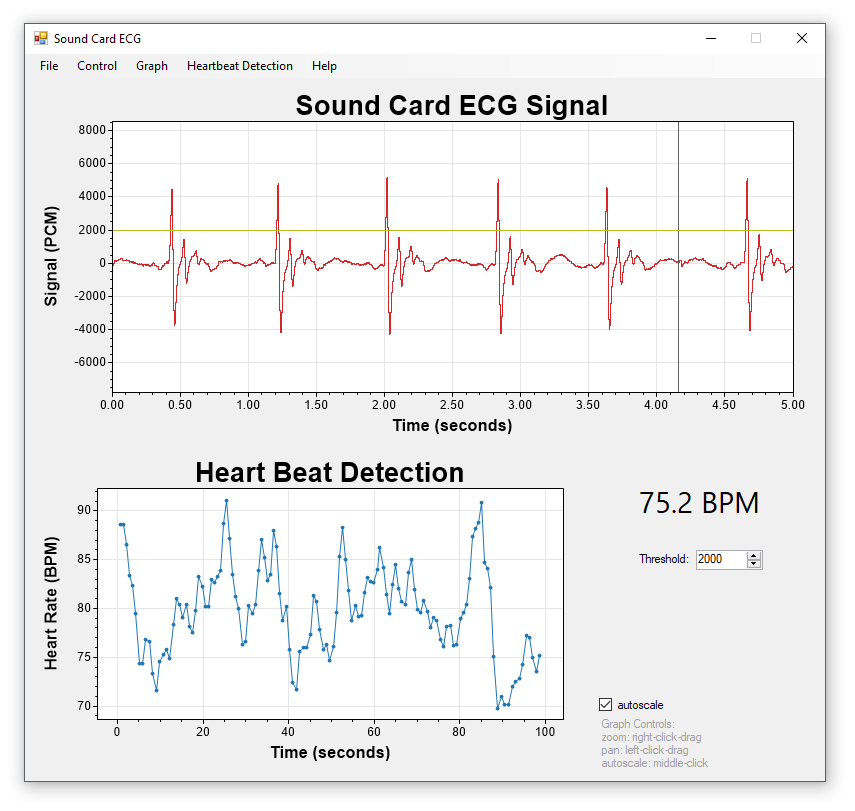
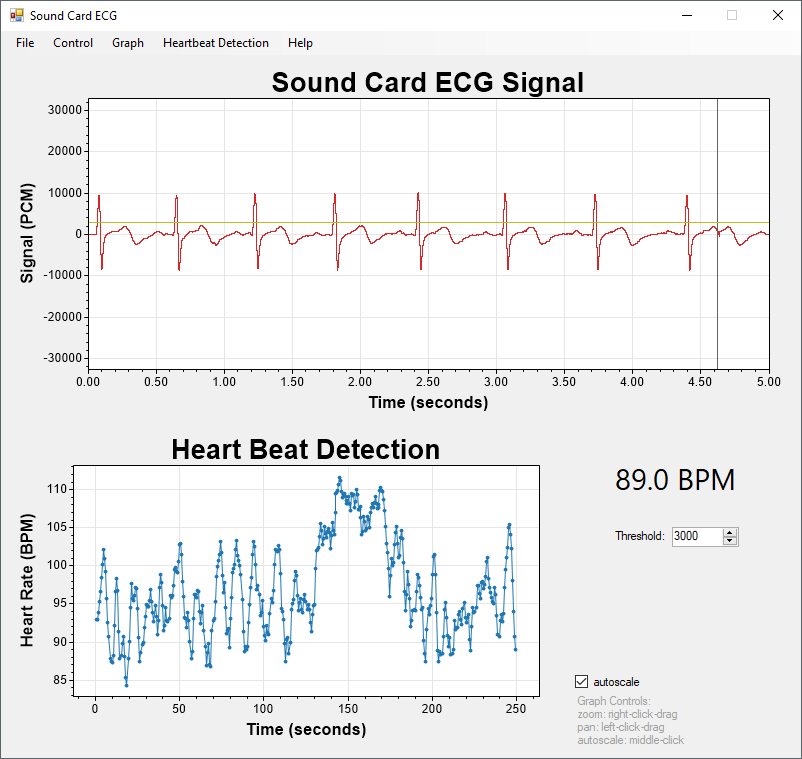
release v1.2

diff --git a/src/SoundCardECG/FormMain.Designer.cs b/src/SoundCardECG/FormMain.Designer.cs
@@ -29,6 +29,7 @@
         private void InitializeComponent()
         {
             this.components = new System.ComponentModel.Container();
+            System.ComponentModel.ComponentResourceManager resources = new System.ComponentModel.ComponentResourceManager(typeof(FormMain));
             this.menuStrip1 = new System.Windows.Forms.MenuStrip();
             this.fileToolStripMenuItem = new System.Windows.Forms.ToolStripMenuItem();
             this.exitToolStripMenuItem = new System.Windows.Forms.ToolStripMenuItem();
@@ -63,6 +64,8 @@
             this.nudThreshold = new System.Windows.Forms.NumericUpDown();
             this.label5 = new System.Windows.Forms.Label();
             this.cbAutoscale = new System.Windows.Forms.CheckBox();
+            this.invertSignalToolStripMenuItem = new System.Windows.Forms.ToolStripMenuItem();
+            this.toolStripSeparator4 = new System.Windows.Forms.ToolStripSeparator();
             this.menuStrip1.SuspendLayout();
             ((System.ComponentModel.ISupportInitialize)(this.nudThreshold)).BeginInit();
             this.SuspendLayout();
@@ -100,6 +103,8 @@
             // 
             this.soundCardToolStripMenuItem.DropDownItems.AddRange(new System.Windows.Forms.ToolStripItem[] {
             this.selectToolStripMenuItem,
+            this.toolStripSeparator4,
+            this.invertSignalToolStripMenuItem,
             this.toolStripSeparator1,
             this.startToolStripMenuItem,
             this.stopToolStripMenuItem});
@@ -110,26 +115,26 @@
             // selectToolStripMenuItem
             // 
             this.selectToolStripMenuItem.Name = "selectToolStripMenuItem";
-            this.selectToolStripMenuItem.Size = new System.Drawing.Size(178, 22);
+            this.selectToolStripMenuItem.Size = new System.Drawing.Size(180, 22);
             this.selectToolStripMenuItem.Text = "Select Audio Device";
             this.selectToolStripMenuItem.Click += new System.EventHandler(this.selectToolStripMenuItem_Click);
             // 
             // toolStripSeparator1
             // 
             this.toolStripSeparator1.Name = "toolStripSeparator1";
-            this.toolStripSeparator1.Size = new System.Drawing.Size(175, 6);
+            this.toolStripSeparator1.Size = new System.Drawing.Size(177, 6);
             // 
             // startToolStripMenuItem
             // 
             this.startToolStripMenuItem.Name = "startToolStripMenuItem";
-            this.startToolStripMenuItem.Size = new System.Drawing.Size(178, 22);
+            this.startToolStripMenuItem.Size = new System.Drawing.Size(180, 22);
             this.startToolStripMenuItem.Text = "Start";
             this.startToolStripMenuItem.Click += new System.EventHandler(this.startToolStripMenuItem_Click);
             // 
             // stopToolStripMenuItem
             // 
             this.stopToolStripMenuItem.Name = "stopToolStripMenuItem";
-            this.stopToolStripMenuItem.Size = new System.Drawing.Size(178, 22);
+            this.stopToolStripMenuItem.Size = new System.Drawing.Size(180, 22);
             this.stopToolStripMenuItem.Text = "Stop";
             this.stopToolStripMenuItem.Click += new System.EventHandler(this.stopToolStripMenuItem_Click);
             // 
@@ -201,7 +206,7 @@
             // 
             this.enabledToolStripMenuItem.CheckOnClick = true;
             this.enabledToolStripMenuItem.Name = "enabledToolStripMenuItem";
-            this.enabledToolStripMenuItem.Size = new System.Drawing.Size(180, 22);
+            this.enabledToolStripMenuItem.Size = new System.Drawing.Size(122, 22);
             this.enabledToolStripMenuItem.Text = "Display";
             this.enabledToolStripMenuItem.Click += new System.EventHandler(this.enabledToolStripMenuItem_Click);
             // 
@@ -213,14 +218,14 @@
             // clearToolStripMenuItem
             // 
             this.clearToolStripMenuItem.Name = "clearToolStripMenuItem";
-            this.clearToolStripMenuItem.Size = new System.Drawing.Size(180, 22);
+            this.clearToolStripMenuItem.Size = new System.Drawing.Size(122, 22);
             this.clearToolStripMenuItem.Text = "Clear";
             this.clearToolStripMenuItem.Click += new System.EventHandler(this.clearToolStripMenuItem_Click);
             // 
             // saveCSVToolStripMenuItem
             // 
             this.saveCSVToolStripMenuItem.Name = "saveCSVToolStripMenuItem";
-            this.saveCSVToolStripMenuItem.Size = new System.Drawing.Size(180, 22);
+            this.saveCSVToolStripMenuItem.Size = new System.Drawing.Size(122, 22);
             this.saveCSVToolStripMenuItem.Text = "Save CSV";
             this.saveCSVToolStripMenuItem.Click += new System.EventHandler(this.saveCSVToolStripMenuItem_Click);
             // 
@@ -362,6 +367,19 @@
             this.cbAutoscale.Text = "autoscale";
             this.cbAutoscale.UseVisualStyleBackColor = true;
             // 
+            // invertSignalToolStripMenuItem
+            // 
+            this.invertSignalToolStripMenuItem.CheckOnClick = true;
+            this.invertSignalToolStripMenuItem.Name = "invertSignalToolStripMenuItem";
+            this.invertSignalToolStripMenuItem.Size = new System.Drawing.Size(180, 22);
+            this.invertSignalToolStripMenuItem.Text = "Invert Signal";
+            this.invertSignalToolStripMenuItem.Click += new System.EventHandler(this.invertSignalToolStripMenuItem_Click);
+            // 
+            // toolStripSeparator4
+            // 
+            this.toolStripSeparator4.Name = "toolStripSeparator4";
+            this.toolStripSeparator4.Size = new System.Drawing.Size(177, 6);
+            // 
             // FormMain
             // 
             this.AutoScaleDimensions = new System.Drawing.SizeF(6F, 13F);
@@ -379,6 +397,7 @@
             this.Controls.Add(this.scottPlotUC1);
             this.Controls.Add(this.menuStrip1);
             this.FormBorderStyle = System.Windows.Forms.FormBorderStyle.FixedSingle;
+            this.Icon = ((System.Drawing.Icon)(resources.GetObject("$this.Icon")));
             this.MainMenuStrip = this.menuStrip1;
             this.MaximizeBox = false;
             this.Name = "FormMain";
@@ -428,6 +447,8 @@
         private System.Windows.Forms.NumericUpDown nudThreshold;
         private System.Windows.Forms.Label label5;
         private System.Windows.Forms.CheckBox cbAutoscale;
+        private System.Windows.Forms.ToolStripSeparator toolStripSeparator4;
+        private System.Windows.Forms.ToolStripMenuItem invertSignalToolStripMenuItem;
     }
 }
 

diff --git a/src/SoundCardECG/FormMain.cs b/src/SoundCardECG/FormMain.cs
@@ -24,14 +24,12 @@ namespace SoundCardECG
 
         private void FormMain_Load(object sender, EventArgs e)
         {
-            //SelectSoundCard();
+            SelectSoundCard();
             StartListening();
         }
 
         private void SelectSoundCard()
         {
-            int deviceNumber;
-
             using (FormSoundCard frm = new FormSoundCard())
             {
                 frm.ShowDialog();
@@ -44,7 +42,7 @@ namespace SoundCardECG
                 StartListening();
         }
 
-        public int deviceNumber;
+        public int deviceNumber = 1;
         private void StartListening()
         {
             // stop the old listener if it's running
@@ -105,8 +103,8 @@ namespace SoundCardECG
                 scottPlotUC2.plt.data.AddScatter(ecg.beatTimes.ToArray(), ecg.beatRates.ToArray());
                 if (cbAutoscale.Checked)
                     scottPlotUC2.plt.settings.AxisFit();
-                scottPlotUC2.Render();
                 lblBmp.Text = string.Format("{0:0.0} BPM", ecg.beatRates[ecg.beatRates.Count - 1]);
+                scottPlotUC2.Render();
             }
 
             Application.DoEvents();
@@ -212,5 +210,12 @@ namespace SoundCardECG
 
         #endregion
 
+        private void invertSignalToolStripMenuItem_Click(object sender, EventArgs e)
+        {
+            if (invertSignalToolStripMenuItem.Checked)
+                ecg.signalMultiple = -1;
+            else
+                ecg.signalMultiple = 1;
+        }
     }
 }

diff --git a/src/SoundCardECG/FormAbout.Designer.cs b/src/SoundCardECG/FormAbout.Designer.cs
@@ -28,6 +28,7 @@
         /// </summary>
         private void InitializeComponent()
         {
+            System.ComponentModel.ComponentResourceManager resources = new System.ComponentModel.ComponentResourceManager(typeof(FormAbout));
             this.label1 = new System.Windows.Forms.Label();
             this.lblVersion = new System.Windows.Forms.Label();
             this.label4 = new System.Windows.Forms.Label();
@@ -141,6 +142,7 @@
             this.Controls.Add(this.label4);
             this.Controls.Add(this.lblVersion);
             this.Controls.Add(this.label1);
+            this.Icon = ((System.Drawing.Icon)(resources.GetObject("$this.Icon")));
             this.Name = "FormAbout";
             this.Text = "About";
             this.Load += new System.EventHandler(this.FormAbout_Load);

diff --git a/src/SoundCardECG/ECG.cs b/src/SoundCardECG/ECG.cs
@@ -16,6 +16,7 @@ namespace SoundCardECG
         int bufferIndex = 0;
         int buffersCaptured = 0;
         public int beatThreshold = 3500;
+        public double signalMultiple = 1;
 
         public List<double> beatTimes = new List<double>();
         public List<double> beatRates = new List<double>();
@@ -77,7 +78,7 @@ namespace SoundCardECG
             int valuesInBuffer = args.BytesRecorded / bytesPerValue;
             double[] bufferValues = new double[valuesInBuffer];
             for (int i = 0; i < valuesInBuffer; i++)
-                bufferValues[i] = BitConverter.ToInt16(args.Buffer, i * bytesPerValue);
+                bufferValues[i] = BitConverter.ToInt16(args.Buffer, i * bytesPerValue) * signalMultiple;
 
             // determine if a heartbeat occured
             int j = 0;

diff --git a/src/SoundCardECG/Properties/Resources.Designer.cs b/src/SoundCardECG/Properties/Resources.Designer.cs
@@ -61,7 +61,7 @@ namespace SoundCardECG.Properties {
         }
         
         /// <summary>
-        ///   Looks up a localized string similar to 1.2.
+        ///   Looks up a localized string similar to 1.3.
         /// </summary>
         internal static string version {
             get {
